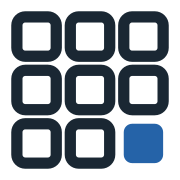
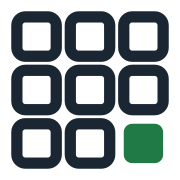
feat: visual iteration — green theme, chrome, privacy, pre-header refs #7
Recolour the brand to a muted green (AA-safe: 5.03:1 light, 7.61:1 dark),
unify typography on the serif family, and refresh the chrome: centered nav
and content container, a two-part footer, a colored uppercase pre-header
keyword from frontmatter (default "article"), an author section on About,
and a no-tracking privacy page.

- green accent in custom.css, logo SVGs, OG generator, and theme-color
- drop Home and the GitHub icon from the nav; logo still links home
- headings use the body serif (remove the system-sans override)
- PageKeyword (doc-before) and SiteFooter (layout-bottom) theme slots
- add privacy.md (state: production) and an author block on about.md
- regenerate favicon/apple-touch/OG from the green mark
- document the green palette, unified type, and keyword in identity.md

Author photo is a placeholder (public/author.svg) pending a real image.

Changed region(s): [[0.6667, 0.6667, 0.9167, 0.9167]]

diff --git a/documentation/.vitepress/theme/custom.css b/documentation/.vitepress/theme/custom.css
@@ -1,12 +1,13 @@
 /* Boring steps — brand tokens over the VitePress default theme.
-   Values mirror documentation/identity.md. */
+   Single muted-green accent; values mirror documentation/identity.md. */
 
 :root {
-  /* Accent — single muted blue, used for links and the brand mark. */
-  --vp-c-brand-1: #2563a8;
-  --vp-c-brand-2: #1d4f87;
-  --vp-c-brand-3: #2563a8;
-  --vp-c-brand-soft: rgba(37, 99, 168, 0.14);
+  /* Accent — single muted green, used for links and the brand mark.
+     Contrast on the light background (#f7f8fa): brand-1 5.03:1, brand-2 6.84:1. */
+  --vp-c-brand-1: #1f7a45;
+  --vp-c-brand-2: #19633a;
+  --vp-c-brand-3: #1f7a45;
+  --vp-c-brand-soft: rgba(31, 122, 69, 0.14);
 
   /* Neutrals */
   --vp-c-bg: #f7f8fa;
@@ -15,7 +16,7 @@
   --vp-c-text-1: #1a2733;
   --vp-c-text-2: #5b6b7a;
 
-  /* Type: serif body for long-form, system sans for chrome. */
+  /* Type: one serif family for both body and headings (unified). */
   --vp-font-family-base: Georgia, Cambria, 'Times New Roman', serif;
   --vp-font-family-mono: ui-monospace, 'SF Mono', Menlo, monospace;
 
@@ -26,17 +27,15 @@
   --vp-home-hero-name-color: var(--vp-c-brand-1);
 }
 
-/* Keep navigation and headings on the modern system sans. */
-.VPNav,
-:is(h1, h2, h3, h4, .VPButton) {
-  font-family: system-ui, -apple-system, 'Segoe UI', Roboto, sans-serif;
-}
+/* Headings use the body serif family (inherited from --vp-font-family-base);
+   no separate heading/nav font override. */
 
 .dark {
-  --vp-c-brand-1: #5b9bd5;
-  --vp-c-brand-2: #7db0e3;
-  --vp-c-brand-3: #5b9bd5;
-  --vp-c-brand-soft: rgba(91, 155, 213, 0.16);
+  /* Contrast on the dark background (#15191e): brand-1 7.61:1, brand-2 8.98:1. */
+  --vp-c-brand-1: #5bbd84;
+  --vp-c-brand-2: #7cc99a;
+  --vp-c-brand-3: #5bbd84;
+  --vp-c-brand-soft: rgba(91, 189, 132, 0.16);
 
   --vp-c-bg: #15191e;
   --vp-c-bg-alt: #1e242b;
@@ -170,4 +169,72 @@
 
 .post-nav-link:hover .post-nav-title {
   text-decoration: underline;
+}
+
+/* --- Chrome: centered nav, content container, footer, pre-header --- */
+
+/* Constrain the top nav to the content column instead of full-bleed. */
+:root {
+  --content-max: 48rem;
+}
+
+.VPNav .content,
+.VPNavBar .container {
+  max-width: var(--content-max);
+  margin-inline: auto;
+}
+
+/* Reshape the content container: a single centered reading column. */
+.VPDoc .container,
+.VPDoc.has-aside .content-container {
+  max-width: var(--content-max);
+  margin-inline: auto;
+}
+
+.VPDoc .content {
+  padding-inline: 1.25rem;
+}
+
+/* Pre-header: a colored uppercase keyword above the page title. */
+.page-keyword {
+  display: block;
+  margin: 0 0 0.5rem;
+  font-size: 0.75rem;
+  font-weight: 700;
+  letter-spacing: 0.12em;
+  text-transform: uppercase;
+  color: var(--vp-c-brand-1);
+}
+
+/* Two-part footer: tagline left, privacy link right. */
+.site-footer {
+  max-width: var(--content-max);
+  margin: 3rem auto 0;
+  padding: 1.25rem;
+  border-top: 1px solid var(--vp-c-divider);
+  display: flex;
+  justify-content: space-between;
+  align-items: center;
+  gap: 1rem;
+  font-size: 0.85rem;
+  color: var(--vp-c-text-2);
+}
+
+.site-footer a {
+  color: var(--vp-c-text-2);
+  text-decoration: none;
+}
+
+.site-footer a:hover {
+  color: var(--vp-c-brand-1);
+}
+
+/* Author photo on the About page. */
+.author-photo {
+  width: 96px;
+  height: 96px;
+  border-radius: 50%;
+  float: right;
+  margin: 0 0 1rem 1.5rem;
+  border: 1px solid var(--vp-c-divider);
 }

diff --git a/documentation/.vitepress/theme/index.ts b/documentation/.vitepress/theme/index.ts
@@ -2,18 +2,23 @@ import DefaultTheme from 'vitepress/theme'
 import type { Theme } from 'vitepress'
 import { h } from 'vue'
 import PostNav from './PostNav.vue'
+import PageKeyword from './PageKeyword.vue'
+import SiteFooter from './SiteFooter.vue'
 import './custom.css'
 
 // Extend the VitePress default theme with the Boring steps identity.
 // Keeping the default theme (rather than forking it) means the brand lives
-// entirely in custom.css and survives VitePress upgrades. The doc-after slot
-// adds the data-driven previous/next bar below every post body; PostNav
-// renders nothing on non-post pages.
+// entirely in custom.css and survives VitePress upgrades. Slots:
+//   doc-before    — colored uppercase keyword above the title (PageKeyword)
+//   doc-after     — data-driven previous/next bar below a post (PostNav)
+//   layout-bottom — two-part site footer (SiteFooter)
 export default {
   extends: DefaultTheme,
   Layout() {
     return h(DefaultTheme.Layout, null, {
+      'doc-before': () => h(PageKeyword),
       'doc-after': () => h(PostNav),
+      'layout-bottom': () => h(SiteFooter),
     })
   },
 } satisfies Theme

diff --git a/documentation/.vitepress/theme/PageKeyword.vue b/documentation/.vitepress/theme/PageKeyword.vue
@@ -1,0 +1,16 @@
+<script setup>
+import { computed } from 'vue'
+import { useData } from 'vitepress'
+
+const { frontmatter, page } = useData()
+
+// Show a colored uppercase keyword above the title on content pages only.
+// Skip the home redirect shim and the history index (no article title).
+const skipped = ['index.md', 'history.md']
+const show = computed(() => !skipped.includes(page.value.relativePath))
+const keyword = computed(() => frontmatter.value.keyword || 'article')
+</script>
+
+<template>
+  <span v-if="show" class="page-keyword">{{ keyword }}</span>
+</template>

diff --git a/documentation/.vitepress/theme/SiteFooter.vue b/documentation/.vitepress/theme/SiteFooter.vue
@@ -1,0 +1,10 @@
+<script setup>
+import { withBase } from 'vitepress'
+</script>
+
+<template>
+  <footer class="site-footer">
+    <span class="site-footer-tagline">Simple, durable systems — built on purpose.</span>
+    <a :href="withBase('/privacy')">Privacy</a>
+  </footer>
+</template>

diff --git a/documentation/identity.md b/documentation/identity.md
@@ -1,5 +1,6 @@
 ---
 state: production
+keyword: reference
 ---
 
 # Visual identity
@@ -19,8 +20,8 @@ serif wordmark: "Boring" in ink, "by design" in the accent.
 
 ## Palette
 
-Ink/slate neutrals carry the page; a single muted blue is the only accent,
-used for links, the filled grid cell, and the "by design" wordmark.
+Ink/slate neutrals carry the page; a single muted green is the only accent,
+used for links, the filled grid cell, and the pre-header keyword.
 
 | Role | Light | Dark |
 | --- | --- | --- |
@@ -28,8 +29,8 @@ used for links, the filled grid cell, and the "by design" wordmark.
 | Surface | `#ffffff` | `#1e242b` |
 | Body text | `#1a2733` | `#d6dde4` |
 | Muted text | `#5b6b7a` | `#9aa7b4` |
-| Accent (brand 1) | `#2563a8` | `#5b9bd5` |
-| Accent hover (brand 2) | `#1d4f87` | `#7db0e3` |
+| Accent (brand 1) | `#1f7a45` | `#5bbd84` |
+| Accent hover (brand 2) | `#19633a` | `#7cc99a` |
 
 ### Contrast
 
@@ -39,18 +40,24 @@ the accent both clear the AA threshold (4.5:1 for normal text) in both themes.
 | Pair | Ratio | AA (4.5:1) |
 | --- | --- | --- |
 | Light body `#1a2733` on `#f7f8fa` | 14.30:1 | pass |
-| Light accent `#2563a8` on `#f7f8fa` | 5.76:1 | pass |
+| Light accent `#1f7a45` on `#f7f8fa` | 5.03:1 | pass |
 | Dark body `#d6dde4` on `#15191e` | 12.88:1 | pass |
-| Dark accent `#5b9bd5` on `#15191e` | 5.96:1 | pass |
+| Dark accent `#5bbd84` on `#15191e` | 7.61:1 | pass |
 
 ## Typography
 
-A serif body signals "a book you can trust"; a system sans keeps the chrome
-modern and fast (no web-font fetch).
+One serif family is used for both body and headings, for a quiet, uniform page
+(no separate sans for chrome).
 
-- **Body / long-form:** Georgia, Cambria, "Times New Roman", serif
-- **UI / navigation / headings chrome:** system-ui, -apple-system, "Segoe UI", Roboto, sans-serif
+- **Body and headings:** Georgia, Cambria, "Times New Roman", serif
 - **Code:** ui-monospace, "SF Mono", Menlo, monospace
+
+## Pre-header keyword
+
+Each content page shows a small uppercase keyword in the accent colour above
+its title, read from a frontmatter `keyword` field and defaulting to `article`
+when absent. It is rendered by the `doc-before` theme slot and skipped on the
+home redirect and the history index.
 
 ## Logo usage
 

diff --git a/documentation/about.md b/documentation/about.md
@@ -1,6 +1,7 @@
 ---
 state: production
 layout: doc
+keyword: about
 ---
 
 # About
@@ -8,6 +9,24 @@ layout: doc
 _Boring steps_ is a blog about building simple, durable systems on purpose.
 The bet is that boring — proven, predictable tools and plain structures — beats
 novelty for its own sake, and lets the ideas stay the interesting part.
+
+## The author
+
+<img src="/author.svg" alt="Bernard Paques" class="author-photo" />
+
+Written by **Bernard Paques**. I build and operate systems for a living, and I
+keep coming back to the same lesson: the parts that last are the boring ones —
+the conventions, the small scripts, the choices you do not have to revisit.
+This blog is where I write those down.
+
+Find me on [GitHub](https://github.com/bernard357).
+
+## Why "boring steps"
+
+Good systems are rarely one clever leap; they are a sequence of small, dull,
+deliberate steps that each hold up on their own. The name is a reminder to
+favour the unremarkable move that keeps working over the exciting one that
+needs babysitting.
 
 ## Principles
 
@@ -22,6 +41,6 @@ novelty for its own sake, and lets the ideas stay the interesting part.
 
 The site is authored in Markdown under `documentation/`, built as a static site
 with [VitePress](https://vitepress.dev/), and published to
-[GitHub Pages](https://docs.github.com/en/pages) via GitHub Actions. Posts are
-flat, deep-linkable pages; see [blog structure](/blog-structure) for how they
-are authored and indexed.
+[GitHub Pages](https://docs.github.com/en/pages). Posts are flat, deep-linkable
+pages; see [blog structure](/blog-structure) for how they are authored and
+indexed.

diff --git a/documentation/privacy.md b/documentation/privacy.md
@@ -1,0 +1,42 @@
+---
+state: production
+layout: doc
+keyword: legal
+---
+
+# Privacy
+
+The short version: there is nothing to collect, so there is nothing to disclose.
+Boring steps is a static site with no accounts, no analytics, no cookies, no
+trackers, and no ad networks. This page exists to make that claim checkable
+rather than to ask permission for things the site does not do.
+
+## What the site does
+
+Boring steps is plain HTML, CSS, and a little JavaScript, served as static
+files. It sets no cookies, runs no analytics, and loads no third-party scripts.
+The only client-side code renders the page and the post list — none of it sends
+anything anywhere.
+
+## What the host sees
+
+Requesting a page tells the hosting provider (GitHub Pages) what any web
+request tells any server: your IP address and the page you asked for. That is
+infrastructure-level logging outside this site's control — not something Boring
+steps collects, stores, or uses.
+
+## The feed
+
+The Atom feed at `/atom.xml` is a static file. Subscribing to it in a reader is
+a request between your reader and the host; the site has no feed service and
+keeps no subscriber list.
+
+## Children's privacy
+
+The site is not directed at children and knowingly collects nothing from anyone
+of any age — there is no mechanism to collect it in the first place.
+
+## Changes
+
+If anything about the site's data handling ever changes, this page is updated
+before that change ships. There is no mailing list; check back here.

diff --git a/documentation/blog-structure.md b/documentation/blog-structure.md
@@ -1,6 +1,7 @@
 ---
 state: production
 layout: doc
+keyword: reference
 ---
 
 # Blog structure
